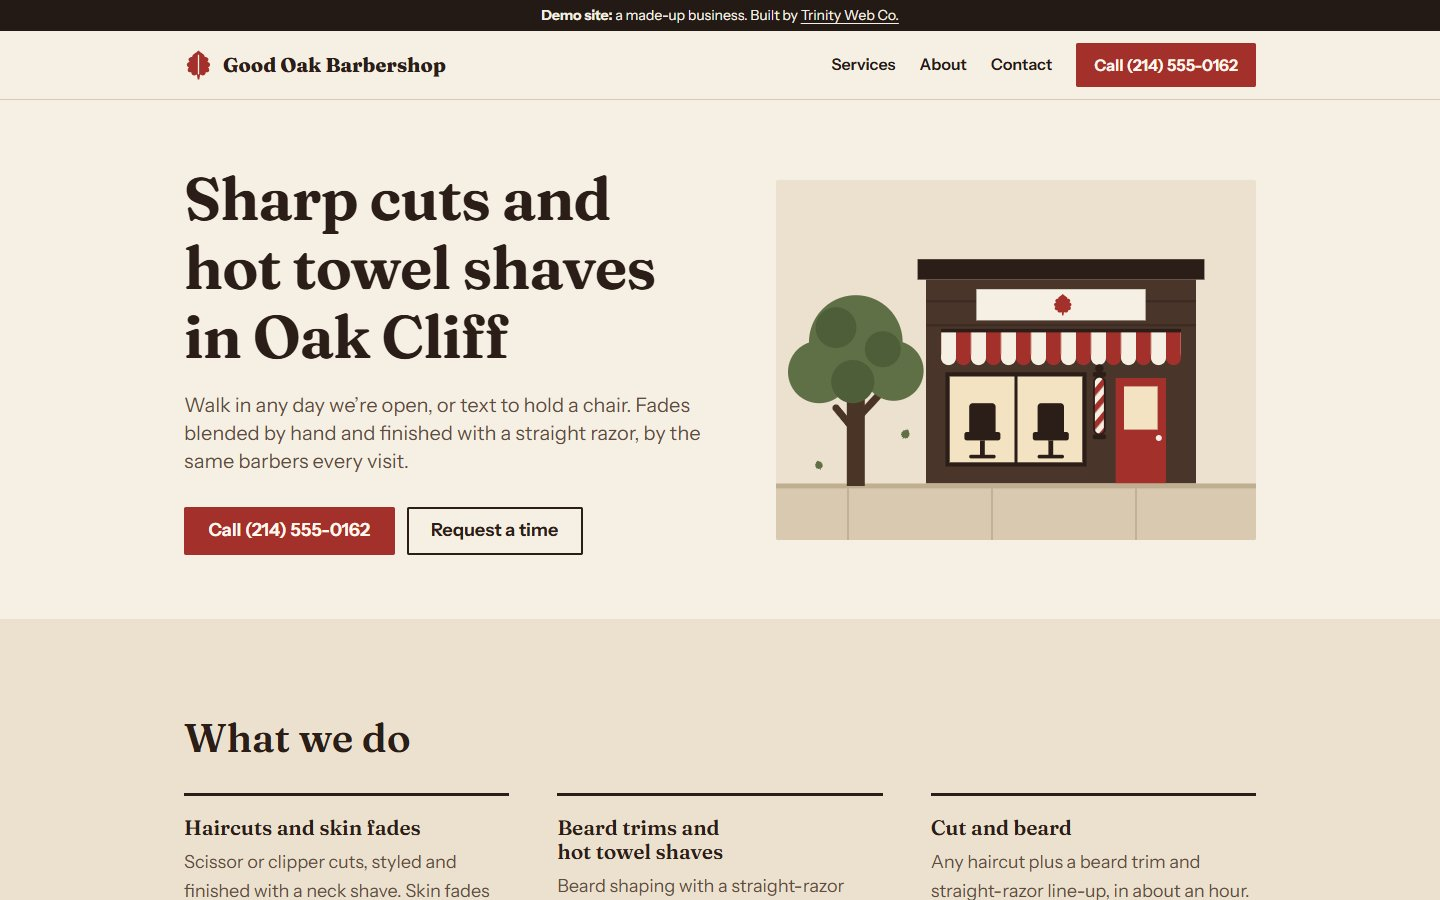
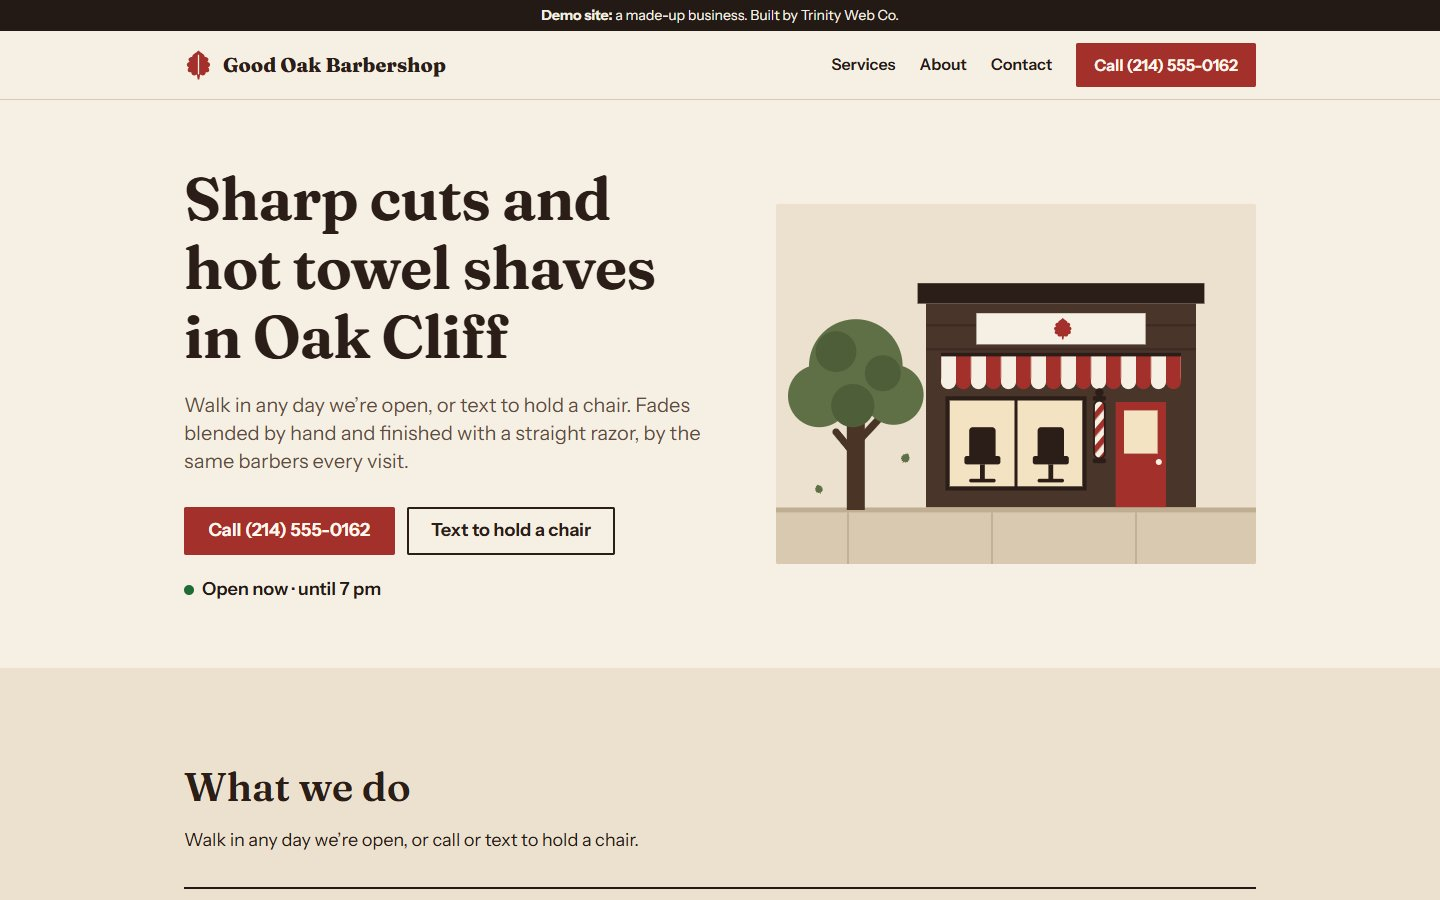
Fill both demo slots with preview links and new screenshots
Purple Martin Heating & Air and Good Oak Barbershop, titled "Demo: ..." with
fresh 1440x900 screenshots after the 2026-10-12 improvements. The links are
Vercel previews behind Vercel login, for review on this branch only: swap in
the production urls and add the mobile PageSpeed scores on launch day before
merging. The link text drops the "Demo:" prefix ("View the Good Oak
Barbershop demo").

diff --git a/site/src/content/site.ts b/site/src/content/site.ts
@@ -1,4 +1,6 @@
 import type { SiteConfig, StudioOffer } from './types';
+import demoPurpleMartin from '../assets/demo-purple-martin.jpg';
+import demoGoodOak from '../assets/demo-good-oak.jpg';
 
 // SINGLE source of truth for trinitywebco.com. Prices, packages and care plans must match
 // business/playbook.md sections 2 and 3: change the playbook first, then this file.
@@ -179,10 +181,27 @@ export const offer: StudioOffer = {
   demos: {
     heading: 'Demo sites',
     lede: 'Two sites built for made-up businesses, so you can see the work before you hire me. Each one is labeled as a demo.',
-    // Playbook section 7, week 1: one demo per target niche. Add url, image and pageSpeed when each is live.
+    // Playbook section 7, week 1: one demo per target niche.
+    // The urls are Vercel previews behind Vercel login, for Hector's review on the fill-demo-slots
+    // branch only. On launch day, swap in the production urls and add pageSpeed (mobile PageSpeed
+    // Insights on the production url) before this goes to main.
     slots: [
-      { niche: 'Home services', title: 'North Texas HVAC' },
-      { niche: 'Barbers and salons', title: 'Oak Cliff barbershop' },
+      {
+        niche: 'Home services',
+        title: 'Demo: Purple Martin Heating & Air',
+        url: 'https://site-purple-martin-air-lake-highlands-h10ea2kti-hlm10.vercel.app',
+        image: demoPurpleMartin,
+        imageAlt:
+          'Homepage of the Purple Martin Heating & Air demo: “Heating and air repair for East Dallas homes,” call, quote and text buttons, and an illustration of a ranch house with an AC unit',
+      },
+      {
+        niche: 'Barbers and salons',
+        title: 'Demo: Good Oak Barbershop',
+        url: 'https://site-good-oak-barbers-oak-cliff-8xn49iw6z-hlm10.vercel.app',
+        image: demoGoodOak,
+        imageAlt:
+          'Homepage of the Good Oak Barbershop demo: “Sharp cuts and hot towel shaves in Oak Cliff,” call and text buttons, “Open now · until 7 pm,” and an illustration of a corner barbershop',
+      },
     ],
   },
   process: {
